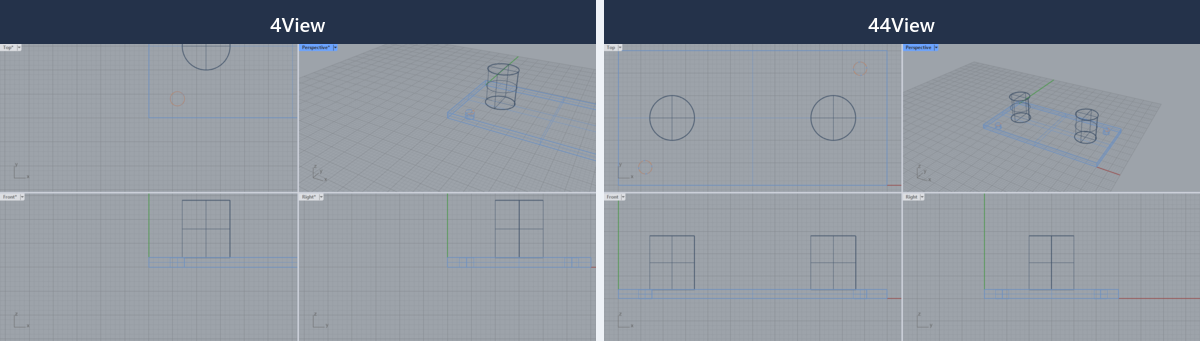
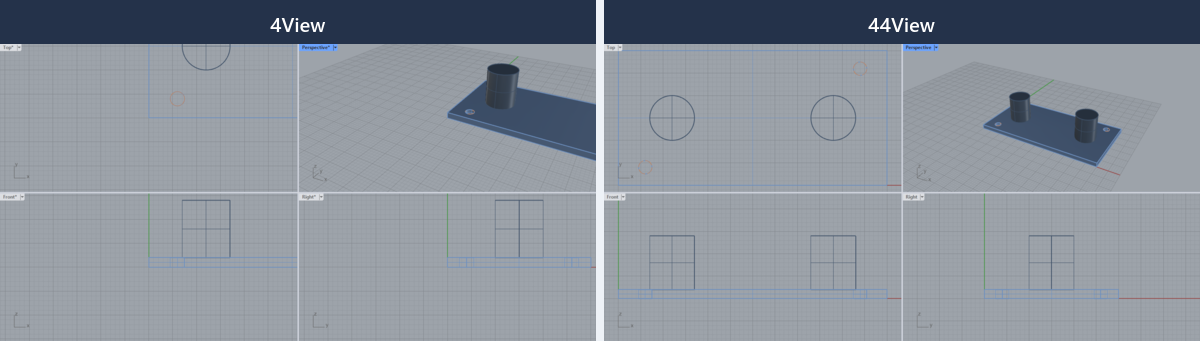
Show the Perspective view in Shaded in the demo pictures
The regression suite shades the Perspective view before the built-in
4View and before 44View, and the in-Rhino run maximizes the Rhino window
and puts it back afterwards, so the screen copies come out at the same
full size on every run. The demo animation and the before and after
still are rebuilt from those copies.

Changed region(s): [[0.37, 0.176, 0.5242, 0.4692], [0.8017, 0.2639, 0.9558, 0.4985]]

diff --git a/tests/rhino/ffv_regression.py b/tests/rhino/ffv_regression.py
@@ -177,6 +177,23 @@ def all_states(context):
     return dict((name, h.camera_state(h.view(context.doc, name).MainViewport)) for name in h.VIEW_NAMES)
 
 
+def display_modes():
+    """Rhino's display modes by English name."""
+    return dict((str(mode.EnglishName), mode) for mode in Rhino.Display.DisplayModeDescription.GetDisplayModes())
+
+
+def display_mode_name(context, name):
+    return str(h.view(context.doc, name).MainViewport.DisplayMode.EnglishName)
+
+
+def shade_perspective(context):
+    """The pictures show the Perspective view in Shaded."""
+    mode = display_modes().get("Shaded")
+    h.not_none(mode, "the Shaded display mode is not available")
+    h.view(context.doc, "Perspective").MainViewport.DisplayMode = mode
+    context.pump()
+
+
 # ---- Cases, in the order they run -------------------------------------------
 
 
@@ -205,6 +222,7 @@ def demo_model(context):
 
 @SUITE.case("before picture: the built-in 4View")
 def builtin_4view(context):
+    shade_perspective(context)
     for attempt in (1, 2):
         outcome = context.run("_-4View _Enter")
         h.ok(outcome["ran"], "the built-in 4View did not run")
@@ -224,6 +242,7 @@ def save_views_off(context):
 
 @SUITE.case("after picture: 44View with the default options fits, centers and aligns the four views")
 def default_fit(context):
+    shade_perspective(context)
     outcome = context.run("_44View")
     h.capture_views(context, "after")
     h.capture_screen(context, "after")
@@ -392,14 +411,13 @@ def layout_off(context):
 
 def check_display_modes(context, wanted, when):
     for name, mode in sorted(wanted.items()):
-        got = str(h.view(context.doc, name).MainViewport.DisplayMode.EnglishName)
-        h.equal(got, mode, "%s display mode %s" % (name, when))
+        h.equal(display_mode_name(context, name), mode, "%s display mode %s" % (name, when))
 
 
 @SUITE.case("each view keeps its display mode, also when the layout is rebuilt")
 def keeps_display_modes(context):
     doc = context.doc
-    available = dict((str(mode.EnglishName), mode) for mode in Rhino.Display.DisplayModeDescription.GetDisplayModes())
+    available = display_modes()
     wanted = {"Top": "Shaded", "Front": "Ghosted", "Right": "X-Ray", "Perspective": "Rendered"}
     for mode in wanted.values():
         h.ok(mode in available, "the %s display mode is not available" % mode)

diff --git a/tests/rhino/run_in_rhino.py b/tests/rhino/run_in_rhino.py
@@ -6,10 +6,11 @@ Launched by tests/run-tests.ps1 as:
 
     Rhino.exe "<copy of a template>.3dm" /nosplash /netcore /runscript="-_RunPythonScript <this file>"
 
-It loads the plugin, sets the plugin's saved options aside, runs the requested
-suites, writes tests/artifacts/rhino-report.json and a readable log beside it,
-puts the saved options back, and closes Rhino. Rhino's exit code says nothing
-about the results, so the launcher reads the report.
+It loads the plugin, sets the plugin's saved options aside, maximizes Rhino's
+window, runs the requested suites, writes tests/artifacts/rhino-report.json and
+a readable log beside it, puts the window and the saved options back, and
+closes Rhino. Rhino's exit code says nothing about the results, so the launcher
+reads the report.
 
 Environment variables:
     FFV_TESTS_DIR   the tests folder (falls back to this file's location)
@@ -101,6 +102,7 @@ def main():
     report = {"ok": False, "counts": {"passed": 0, "failed": 0, "error": 0},
               "total": 0, "results": [], "artifacts": []}
     guard = None
+    window = None
 
     try:
         import ffv_harness as h
@@ -112,6 +114,8 @@ def main():
 
         context = h.Context(doc, plugin_object, TESTS, LOG_PATH)
         context.state["guard"] = guard
+        window = h.WindowGuard(context)
+        window.maximize()
         context.log("44 View in-Rhino tests")
         context.log("rhino          : %s" % Rhino.RhinoApp.Version)
         context.log("plugin version : %s" % plugin_object.Version)
@@ -145,6 +149,11 @@ def main():
         append_log(traceback.format_exc())
 
     finally:
+        try:
+            if window is not None:
+                window.restore()
+        except Exception:
+            append_log("could not put the window back:\n" + traceback.format_exc())
         try:
             if guard is not None:
                 guard.restore()

diff --git a/tests/rhino/ffv_harness.py b/tests/rhino/ffv_harness.py
@@ -344,6 +344,44 @@ class SettingsGuard(object):
             self.settings.SetBool("Layout", self.saved["Layout"])
 
 
+# ---- Main window ------------------------------------------------------------
+
+
+class WindowGuard(object):
+    """
+    Maximizes Rhino's main window for the run and puts it back afterwards. The
+    viewports then have the same size on every run, whatever size Rhino was
+    last left at, and the screen copies come out at full size. Best effort:
+    when the main window cannot be reached, it stays as it is.
+    """
+
+    def __init__(self, context):
+        self.context = context
+        self.window = None
+        self.previous = None
+
+    def maximize(self):
+        try:
+            import Rhino.UI
+            import Eto.Forms
+            window = Rhino.UI.RhinoEtoApp.MainWindow
+            self.previous = window.WindowState
+            window.WindowState = Eto.Forms.WindowState.Maximized
+            self.window = window
+        except Exception:
+            self.context.log("window not maximized: " + traceback.format_exc().strip().splitlines()[-1])
+        self.context.pump()
+
+    def restore(self):
+        if self.window is None:
+            return
+        try:
+            self.window.WindowState = self.previous
+        finally:
+            self.window = None
+            self.context.pump()
+
+
 # ---- Captures ---------------------------------------------------------------
 
 

diff --git a/tests/README.md b/tests/README.md
@@ -31,6 +31,10 @@ template into `tests/artifacts/`, starts Rhino 8 on the copy with
 results, so the report decides pass or fail. Everything a run writes lands in
 `tests/artifacts/`, which is not committed.
 
+Rhino's window is maximized while the suites run and put back when they end.
+The viewports then have the same size on every run, whatever size Rhino was
+last left at, and the screen copies come out at full size.
+
 The default template is Rhino's small-objects millimeter template; pass
 `-Template` to start from another. Keep the repository in a folder whose path
 has no spaces: the runner passes the test script's path to Rhino's
@@ -95,9 +99,10 @@ view, kept through the layout even when a view was maximized or closed.
 | `before-screen.png`, `after-screen.png` | The four viewports copied from the screen, with Rhino's own titles and borders |
 | `display-modes-screen.png` | The four viewports copied from the screen after `44View`, each in a different display mode |
 
-The runner assembles `before.png` and `after.png` with ImageMagick when
-`magick` is on the PATH. The screen copies need a visible Rhino window and are
-skipped otherwise. Pictures are for looking at and for the documentation; the
+The before and after pictures show the Perspective view in Shaded. The runner
+assembles `before.png` and `after.png` with ImageMagick when `magick` is on the
+PATH. The screen copies need a visible Rhino window and are skipped
+otherwise. Pictures are for looking at and for the documentation; the
 assertions decide whether a run passes.
 
 ## Why the in-Rhino suites are written this way
